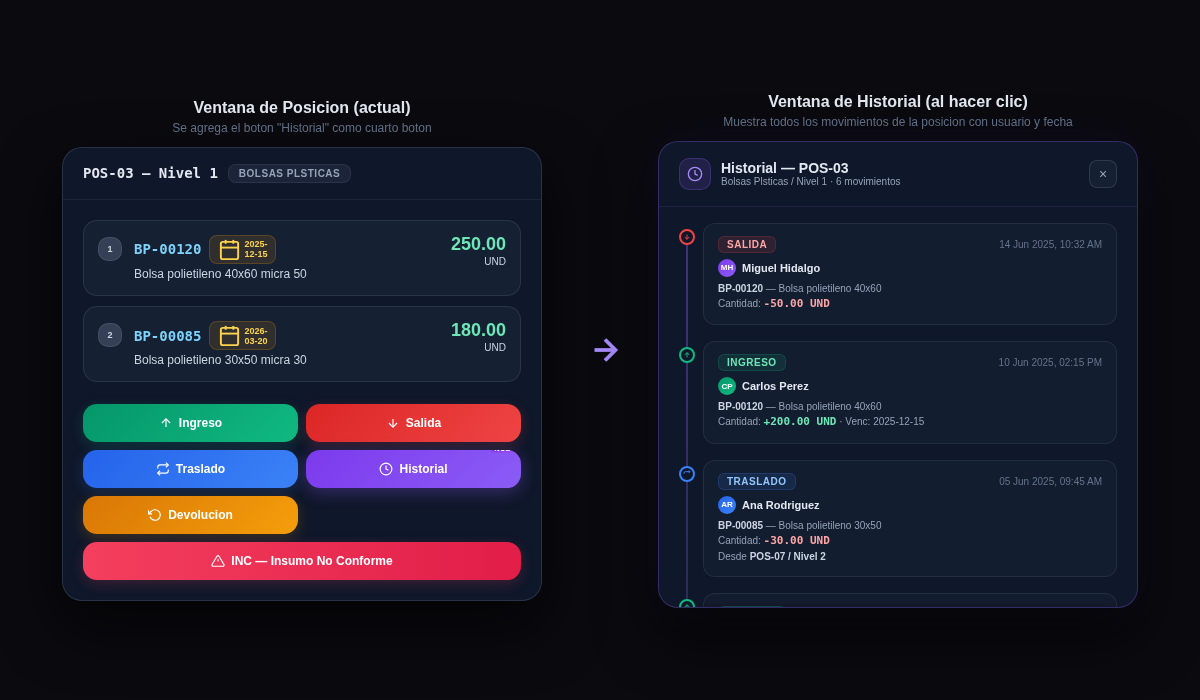
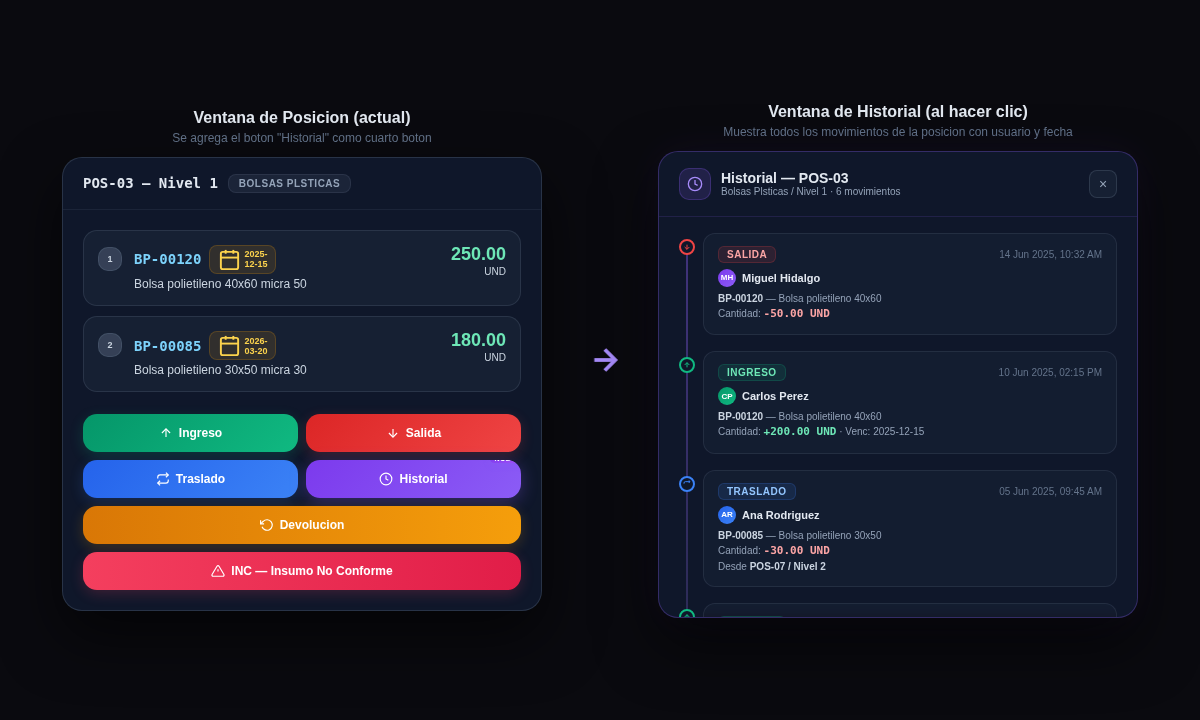
c140acfb-03a4-45db-8c7c-41983f6a4c9e

diff --git a/download/mockup_historial_boton.html b/download/mockup_historial_boton.html
@@ -188,6 +188,11 @@
     50% { box-shadow: 0 4px 24px rgba(139,92,246,0.45); }
   }
 
+  .btn-devolucion {
+    grid-column: 1 / -1;
+    background: linear-gradient(90deg, #d97706, #f59e0b);
+    box-shadow: 0 4px 14px rgba(245,158,11,0.2);
+  }
   .btn-inc {
     grid-column: 1 / -1;
     background: linear-gradient(90deg, #f43f5e, #e11d48);
